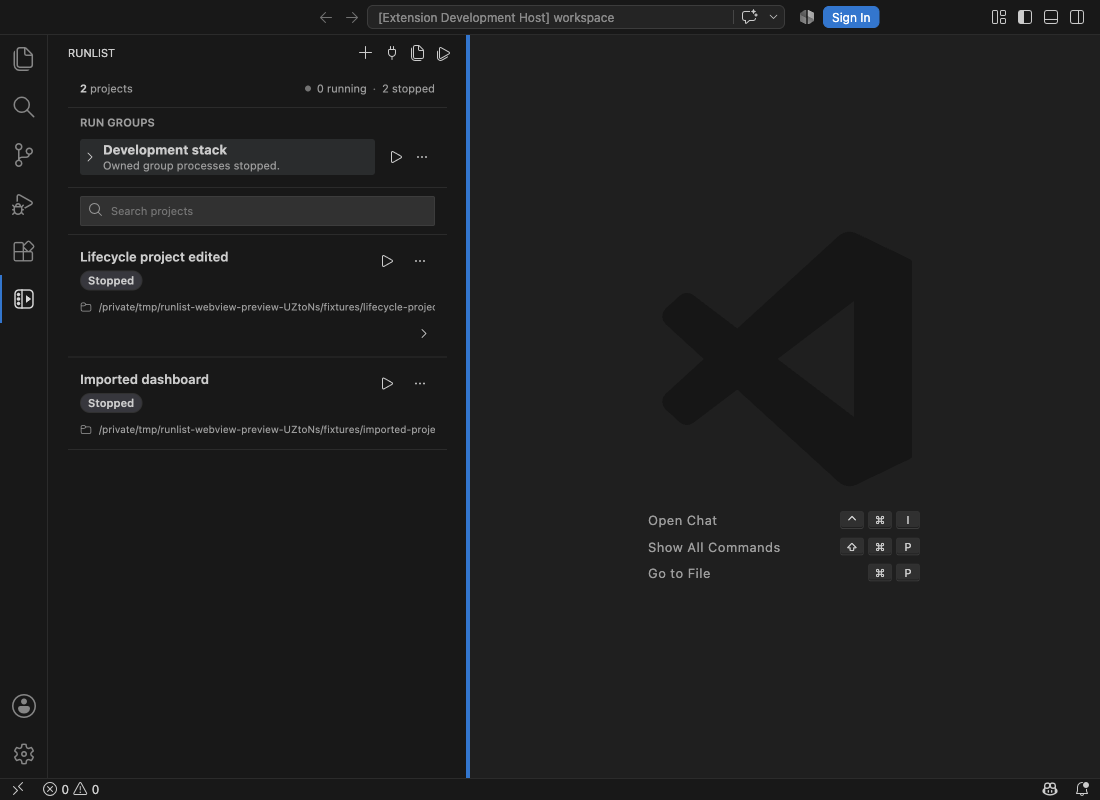
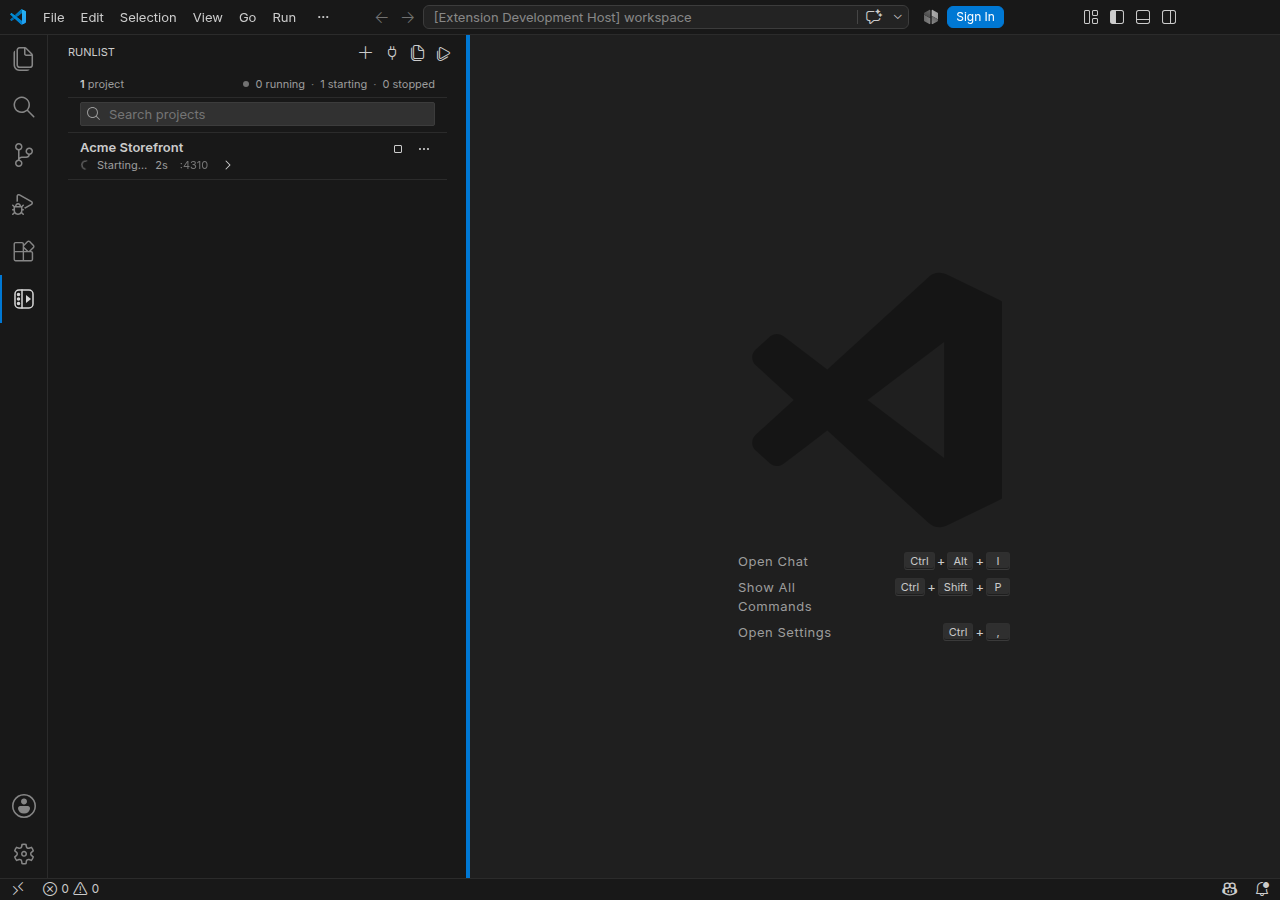
Wait for Running before Frame B IDE screenshots.
Refresh project statuses after seeding so the capture shows Stop, Restart, elapsed, and the port chip instead of Starting.

diff --git a/scripts/webview-e2e.js b/scripts/webview-e2e.js
@@ -146,12 +146,12 @@ async function captureIdeScreenshots(browser, ready, root, extensionDevelopmentP
   assert.ok(fs.statSync(frameAPath).size > 10000, 'Frame A IDE screenshot was unexpectedly small.');
 
   const seeded = await hostCommand(root, 'seed-running-screenshot');
-  await waitFor(async () => await hostCommand(root, 'project-status', { projectId: seeded.projectId }) === 'running',
-    20000, 'seeded screenshot project to become running');
+  assert.ok(['running', 'active'].includes(seeded.status), `Expected running project, got ${seeded.status}`);
   await waitFor(async () => await hostCommand(root, 'start-count') >= 1,
     10000, 'seeded screenshot project to write its launch marker');
   // Let the elapsed clock tick so Frame B looks alive.
   await new Promise((resolve) => setTimeout(resolve, 1400));
+  await hostCommand(root, 'refresh-list');
   await hostCommand(root, 'prepare-screenshot');
   await widenSidebar(page, 420);
   await hideWorkbenchChrome(page);
@@ -166,8 +166,9 @@ async function captureIdeScreenshots(browser, ready, root, extensionDevelopmentP
 
   await hostCommand(root, 'stop-project', { projectId: seeded.projectId });
   await waitFor(async () => {
-    const status = await hostCommand(root, 'project-status', { projectId: seeded.projectId });
-    return status === 'stopped' || status === 'idle' || status === 'inactive';
+    const snapshot = await hostCommand(root, 'project-status', { projectId: seeded.projectId });
+    return !snapshot.hasProcess
+      && ['stopped', 'idle', 'inactive'].includes(snapshot.status);
   }, 15000, 'seeded screenshot project to stop');
 }
 

diff --git a/smoke/webview-e2e-host.js b/smoke/webview-e2e-host.js
@@ -116,12 +116,20 @@ async function executeBrowserCommand(command, provider, root) {
     });
     provider.renderProjectList();
     const started = await provider.startProject(seeded.project.id);
-    const status = provider.getProjectStatus(seeded.project.id);
-    assert.equal(started, true, `Could not start the screenshot project (status=${status}).`);
+    assert.equal(started, true, `Could not start the screenshot project (status=${provider.getProjectStatus(seeded.project.id)}).`);
+    await waitFor(
+      async () => {
+        await provider.refreshProjectStatuses();
+        return ['running', 'active'].includes(provider.getProjectStatus(seeded.project.id));
+      },
+      'Screenshot project did not become running after start.',
+      20000
+    );
+    provider.renderProjectList();
     return {
       projectId: seeded.project.id,
       name: seeded.project.name,
-      status,
+      status: provider.getProjectStatus(seeded.project.id),
       hasProcess: provider.processes.has(seeded.project.id)
     };
   }
